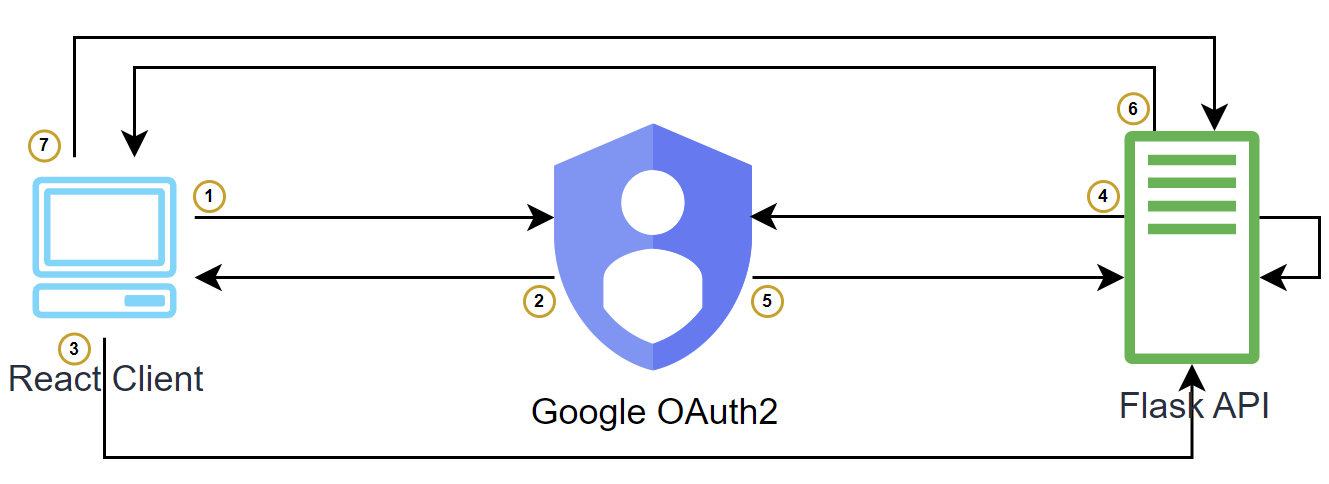
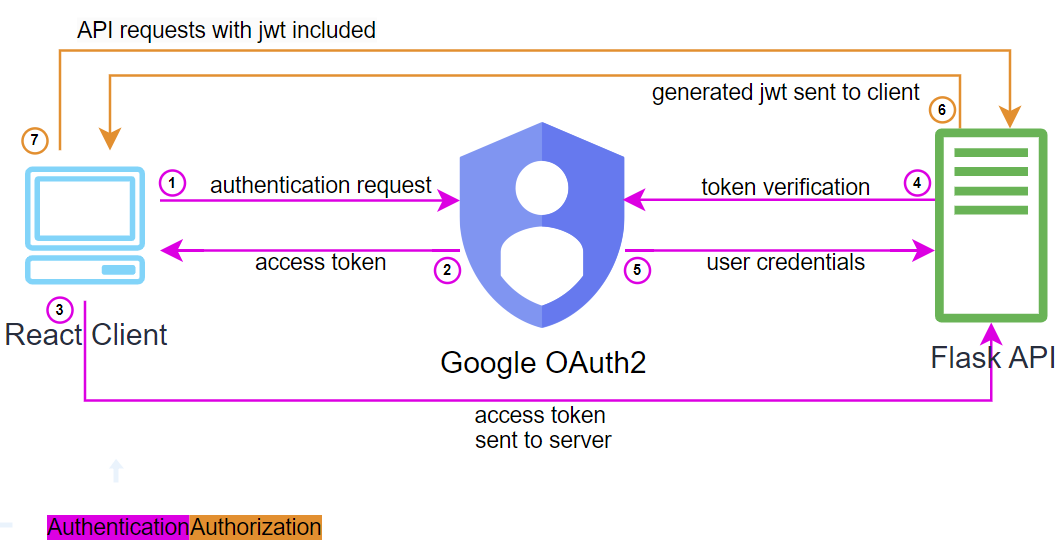
set jwt in cookie

Changed region(s): [[0.0, 0.031, 0.9953, 0.9917]]

diff --git a/react-client/src/auth/auth.js b/react-client/src/auth/auth.js
@@ -5,7 +5,7 @@ import { useGoogleLogin } from "@react-oauth/google";
 import UserAvatar from "./userAvatar";
 
 async function getUserInfo(codeResponse) {
-  var response = await fetch("http://127.0.0.1:5000/google_login", {
+  var response = await fetch("/google_login", {
     method: "POST",
     headers: {
       "Content-Type": "application/json",
@@ -13,6 +13,19 @@ async function getUserInfo(codeResponse) {
     body: JSON.stringify({ code: codeResponse.code }),
   });
   return await response.json();
+}
+
+async function getProtected() {
+  var response = await fetch("/protected", {
+    method: "GET",
+    credentials: "include",
+    mode: "cors",
+    headers: {
+      "Content-Type": "application/json",
+    },
+  })
+    .then((res) => res.json())
+    .then((msg) => console.log(msg));
 }
 export default function Auth() {
   const [loggedIn, setLoggedIn] = useState(false);
@@ -27,6 +40,7 @@ export default function Auth() {
   });
 
   const handleLogout = () => {
+    getProtected();
     setLoggedIn(false);
   };
 

diff --git a/Flask/app.py b/Flask/app.py
@@ -3,7 +3,7 @@ import os
 import requests
 from flask import Flask, request, jsonify
 from dotenv import load_dotenv
-from flask_jwt_extended import create_access_token, JWTManager
+from flask_jwt_extended import create_access_token, JWTManager, jwt_required, get_jwt_identity
 from flask_cors import CORS
 
 app = Flask(__name__)
@@ -11,6 +11,7 @@ CORS(app)
 
 # Initialize JWTManager
 app.config['JWT_SECRET_KEY'] = 'your-secret-key'  # Replace with your own secret key
+app.config['JWT_TOKEN_LOCATION'] = ['cookies']
 jwt = JWTManager(app)
 
 load_dotenv()  # Load the environment variables from the .env file
@@ -43,12 +44,25 @@ def login():
     user_info = requests.get('https://www.googleapis.com/oauth2/v3/userinfo', headers=headers).json()
 
     """
-        check here if user exists in database
+        check here if user exists in database, if not, add him
     """
 
     jwt_token = create_access_token(identity=user_info['email'])  # create jwt token
-    user_info["jwt"] = jwt_token
-    return jsonify(user=user_info), 200
+    response = jsonify(user=user_info)
+    response.set_cookie('access_token_cookie', value=jwt_token, secure=True)
+
+    return response, 200
+
+
+# Protect a route with jwt_required, which will kick out requests
+# without a valid JWT present.
+@app.route("/protected", methods=["GET"])
+@jwt_required()
+def protected():
+    # Access the identity of the current user with get_jwt_identity
+    jwt_token = request.cookies.get('access_token_cookie') # Demonstration how to get the cookie
+    current_user = get_jwt_identity()
+    return jsonify(logged_in_as=current_user), 200
 
 
 if __name__ == '__main__':

diff --git a/README.md b/README.md
@@ -1,26 +1,31 @@
 ## Introduction
 
-In this post, we'll explore how to implement Google OAuth2 with React, Flask, and JWT to create a secure and seamless authentication system for web applications. OAuth2 is a widely used authorization protocol that allows users to grant access to their data to third-party applications, while JWT (JSON Web Tokens) is a popular method for securely transmitting authorization data. Together, OAuth2 and JWT provide a robust solution for both authentication and authorization in web applications.
+In this post we'll explore how to implement Google OAuth2 with React, Flask, and JWT to create a secure and seamless authentication system for web applications. OAuth2 is a widely used authorization protocol that allows users to grant access to their data to third-party applications, while JWT (JSON Web Tokens) is a popular method for securely transmitting authorization data. Together, OAuth2 and JWT provide a robust solution for both authentication and authorization in web applications.
 
 ### Authentication vs Authorization
 
 Authentication verifies user identity, while authorization grants access based on permissions. In our system, we will use `Google OAuth2` for authentication and `JWT` for authorization.
 
+### What is Google OAuth2?
+
+![sign-in-with-google](https://dev-to-uploads.s3.amazonaws.com/uploads/articles/8ikpjdz7mpdv64jn3qql.png)
+Google OAuth2 is an authentication and authorization protocol that allows third-party applications to access user data on Google services securely without sharing usernames and passwords.
+
 ### What is JWT?
 
-A `JWT` (JSON Web Token) securely encodes information about a user's identity and permissions. It is typically signed with a secret key by the server to verify its integrity. JWTs can be used to protect specific routes in an API server, as the client includes the JWT in requests. The server then decodes the JWT to determine the sender's identity and permissions.
+`JWT` (JSON Web Token) encodes information about a user's identity and permissions. Typically, when a user logs in, a `JWT` token is generated and signed (with a secret key) by the server and returned to the user for further use. Then the token can be used to protect specific routes in an API server, as the client includes the JWT in their requests. The server then decodes the JWT to determine the sender's identity and permissions.
 
 ### Authentication flow
 
-![Google OAuth2 flow](https://dev-to-uploads.s3.amazonaws.com/uploads/articles/c2hjsyw1y2i41380eh9i.png)
+![Google OAuth2 flow](https://dev-to-uploads.s3.amazonaws.com/uploads/articles/fhot61azpis5br9em2tv.png)
 
-1. The client sends an authentication request to the OAuth server (Google OAuth2).
+1. The client sends an authentication request to the OAuth2 server (Google OAuth2).
 2. An access token is returned to the client.
-3. The Access token is then sent from the client to the API server (flask).
-4. API server verifies the token with the OAuth server, to confirm the client is authorized to consume that resource.
-5. OAuth server responds with user credentials (name, email, etc).
-6. API Server encrypts a JWT using user credentials and send it to the client.
-7. From now on, any request the client sends to the API server will be with the JWT as a header.
+3. The Access token is then sent from the client to the API server (Flask).
+4. API server verifies the token with the OAuth2 server, to confirm the client is authorized to consume that resource.
+5. OAuth2 server responds with user credentials (name, email, etc).
+6. API server encrypts a JWT using user credentials and sends it to the client via cookies for security reasons.
+7. From now on, any request the client sends to the API server will include the JWT cookie.
 
 ---
 
@@ -28,7 +33,7 @@ A `JWT` (JSON Web Token) securely encodes information about a user's identity an
 
 To set up Google OAuth2 with React, Flask, and JWT, follow these steps:
 
-1. Create OAuth client credentials in the [Google Developer Consolehttps://console.cloud.google.com/apis/credentials). Go to the console, navigate to credentials, and create a new OAuth client ID for a web application. Add `http://localhost` and `http://localhost:<port_number>` (in our case `http://localhost:3000`) to the Authorized JavaScript origins box for local tests or development. Click Save.
+1. Create OAuth client credentials in the [Google Developer Console](https://console.cloud.google.com/apis/credentials). Go to the console, navigate to credentials, and create a new OAuth client ID for a web application. Add `http://localhost` and `http://localhost:<port_number>` (in our case `http://localhost:3000`) to the Authorized JavaScript origins box for local tests or development. Click Save.
 
 2. Clone the repository for our demo project from https://github.com/eli-entelis/Flask-React-Google-OAuth2-Demo.git.
 
@@ -39,7 +44,7 @@ To set up Google OAuth2 with React, Flask, and JWT, follow these steps:
    pip install -r requirements.txt
    ```
 
-4. Create a .env file in the Flask directory to configure the GOOGLE_CLIENT_ID and GOOGLE_SECRET_KEY environment variables. You can obtain these values from the [Google Developer Console](https://console.cloud.google.com/apis/credentials). Click on the credential you just created, and on the right side, you will find the Client ID and Client secret. Add the following lines to the .env file:
+4. Create a .env file in the Flask directory to configure the `GOOGLE_CLIENT_ID` and `GOOGLE_SECRET_KEY` environment variables. You can obtain these values from the [Google Developer Console](https://console.cloud.google.com/apis/credentials). Click on the credential you just created and on the right side, you will find the `Client ID` and `Client secret`. Add the following lines to the .env file:
    ```
    #.env
    GOOGLE_CLIENT_ID=<insert here client id>
@@ -55,31 +60,31 @@ To set up Google OAuth2 with React, Flask, and JWT, follow these steps:
    everything works correctly, you should see a **_"Hello,
    World!"_** response.
 
-6. To Set up React, go to `react-client/src/App.js` and insert to the `<GoogleOAuthProvider>` componet the Google `Client ID`:
+6. To Set up React, go to `react-client/src/App.js` and insert the Google `Client ID` to the `<GoogleOAuthProvider>` componet:
 
    ```
    <GoogleOAuthProvider clientId="<insert here client id>">
    ```
 
-   this will be explained in a bit.
+   This will be explained later.
 
-7. open a command prompt or terminal in the directory that contains the cloned repository and run the following commands:
+7. Open a command prompt or terminal in the directory that contains the cloned repository and run the following commands:
    `shell
-    cd react-client
-    npm install
-    npm start
-    `
-   This will install the required dependencies and start the React development server. You can access the React application in your browser at http://127.0.0.1:3000/. If everything is set up correctly, you should see the this result.
+ cd react-client
+ npm install
+ npm start
+ `
+   This will install the required dependencies and start the React development server. You can access the React application in your browser at http://127.0.0.1:3000/. If everything is set up correctly, you should see this result.
 
 ## <img width="100%" style="width:100%" src="https://media.giphy.com/media/v1.Y2lkPTc5MGI3NjExZjlhNzYyYzU3NmU3YjkxNDc0OTMzN2JiYjMzNzU4NjE2ZjBmZWRhZCZlcD12MV9pbnRlcm5hbF9naWZzX2dpZklkJmN0PWc/QB2e3bVuzJsDyKY2H7/giphy.gif">
 
 ## Implementation details
 
-Let's dive into the implementation details, starting with the client-side code in the `getUserInfo` function under the `<Auth>` component in `src/auth/auth.js`:
+Starting with the client-side code in the `getUserInfo` function under the `<Auth>` component in `src/auth/auth.js`:
 
 ```javascript
 async function getUserInfo(codeResponse) {
-  var response = await fetch("http://127.0.0.1:5000/google_login", {
+  var response = await fetch("/google_login", {
     method: "POST",
     headers: {
       "Content-Type": "application/json",
@@ -90,7 +95,10 @@ async function getUserInfo(codeResponse) {
 }
 ```
 
-This function is an asynchronous function that takes a `codeResponse` object as an argument, which is the response object returned from the successful Google login flow. It sends a POST request to our API server endpoint (http://127.0.0.1:5000/google_login) with the `code` property from the `codeResponse` object as the request body in JSON format. The response from the server is then parsed as JSON and returned, containing the user information and `JWT`.
+This function is an asynchronous function that takes a codeResponse object as an argument, which is the response object returned from the successful Google login flow. It sends a POST request to our API server endpoint (http://127.0.0.1:5000/google_login) with the code property from the codeResponse object as the request body in JSON format. The server response is then parsed as JSON and returned, containing the user information.
+In addition to the user information, the function also sets the JWT token as a cookie. I won't dive into the security issues of different storage solution for `JWT`, such as cookies, local Storage, session Storage etc. For more information read [here](https://javascript.plainenglish.io/where-to-store-the-json-web-token-jwt-4f76abcd4577).
+
+> We configured `"proxy": "http://localhost:5000"` in `package.json`. this is why we are fetching `/google_login` and not `http://127.0.0.1:5000/google_login`
 
 Now let's take a look at the `<Auth>` component itself.
 
@@ -132,11 +140,9 @@ export default function Auth() {
 
 This is the main component for handling authentication. It uses the `useGoogleLogin` hook from the [`@react-oauth/google`](https://github.com/MomenSherif/react-oauth) library to handle the Google login flow.
 
-Inside the `useGoogleLogin` hook, the flow property is set to `auth-code`, indicating that it is using the authorization code flow for authentication. The `onSuccess` callback is triggered when the login is successful, and it receives a `codeResponse` object as an argument, which is passed to the `getUserInfo`. Once the user information is received, the `loggedIn` state is set to true and the `user` state is updated with the user information.
+The `onSuccess` callback is triggered when the login is successful, and it receives a `codeResponse` object as an argument, which is passed to the `getUserInfo`. Once the user information is received, the `loggedIn` state is set to true and the `user` state is updated with the user information.
 
-:warning: It is generally not recommended to store the JWT token in React state, as it can be susceptible to security risks. For more details read here [here](https://javascript.plainenglish.io/where-to-store-the-json-web-token-jwt-4f76abcd4577)
-
-To use the [`@react-oauth/google`](https://github.com/MomenSherif/react-oauth) we need to wrap our component with `<GoogleOAuthProvider>` and pass it the same `Client ID` we used in previous steps.  
+To use the [`@react-oauth/google`](https://github.com/MomenSherif/react-oauth) we need to wrap our component with `<GoogleOAuthProvider>` and pass it the same `Client ID` we used in the previous steps.  
 :exclamation: Without this step the client wouldn't be able to authenticate. You can see an example at `src/App.js`
 
 ```javascript
@@ -169,15 +175,17 @@ def login():
     user_info = requests.get('https://www.googleapis.com/oauth2/v3/userinfo', headers=headers).json()
 
     """
-        check here if user exists in database
+        check here if user exists in database, if not, add him
     """
 
     jwt_token = create_access_token(identity=user_info['email'])  # create jwt token
-    user_info["jwt"] = jwt_token
-    return jsonify(user=user_info), 200
+    response = jsonify(user=user_info)
+    response.set_cookie('access_token_cookie', value=jwt_token, secure=True)
+
+    return response, 200
 ```
 
-This code snippet is a `Flask` route that handles a request sent by the client after a successful login with `Google OAuth2`. It retrieves the authorization code, exchanges it for an access token, fetches user information, creates a JWT token, and includes it in the response JSON with the user information.
+This Flask API endpoint handles a client request after a successful Google login using OAuth2.0. It receives an authorization code, sends it to Google for token exchange, retrieves user information, creates a `JWT` token with the user's email, sets the `JWT` token as a `cookie` in the response, and returns the user information as JSON in the response body.
 
 ### Authorization
 
@@ -191,33 +199,34 @@ Here is how:
 @jwt_required()
 def protected():
     # Access the identity of the current user with get_jwt_identity
+    jwt_token = request.cookies.get('access_token_cookie') # Demonstration how to get the cookie
     current_user = get_jwt_identity()
     return jsonify(logged_in_as=current_user), 200
 ```
 
-This is how a request to the `@/protected` route from our react client look like
+| :information_source: INFO |
+| :------------------------ |
+| It's important to set the cookie name to `access_token_cookie`, by default this is the name that `flask_jwt_extended` will look for. to override this : `app.config['JWT_ACCESS_COOKIE_NAME'] = 'jwt'  # Specify the custom cookie name`
+Set `app.config['JWT_TOKEN_LOCATION'] = ['cookies']` to make `flask_jwt_extended` search the `JWT` in the cookies instead of in the authorization headers which is the default.|
+
+This is how a request to the `@/protected` route from our React client looks like:
 
 ```javascript
-export async function getProtectedResource(jwt) {
-  var myHeaders = new Headers();
-  myHeaders.append("Authorization", `Bearer ${jwt}`);
-  myHeaders.append("Content-Type", "application/json");
-
-  var requestOptions = {
+async function getProtected() {
+  var response = await fetch("/protected", {
     method: "GET",
-    headers: myHeaders,
-    redirect: "follow",
-  };
-
-  const response = await fetch(
-    `http://127.0.0.1:5000/protected/`,
-    requestOptions
-  );
-  return await response.json();
+    credentials: "include",
+    mode: "cors",
+    headers: {
+      "Content-Type": "application/json",
+    },
+  })
+    .then((res) => res.json())
+    .then((msg) => console.log(msg));
 }
 ```
 
-Take note that we send the `JWT` as part of a `Authorization` header with the pretext of `Bearer`:exclamation:
+Take note that we set `credentials: "include"` which allows the browser to include the `access_token_cookie` cookie in the request.
 
 ### Resources
 
@@ -227,7 +236,7 @@ Take note that we send the `JWT` as part of a `Authorization` header with the pr
 
 ---
 
-:v: Contact me on:   
+:v: Contact me on:  
 Linkdin: [Eli Entelis](https://www.linkedin.com/in/eli-entelis/)  
 Github: [eli-entelis](https://github.com/eli-entelis/eli-entelis)  
 Email: elientelis1999@gmail.com
